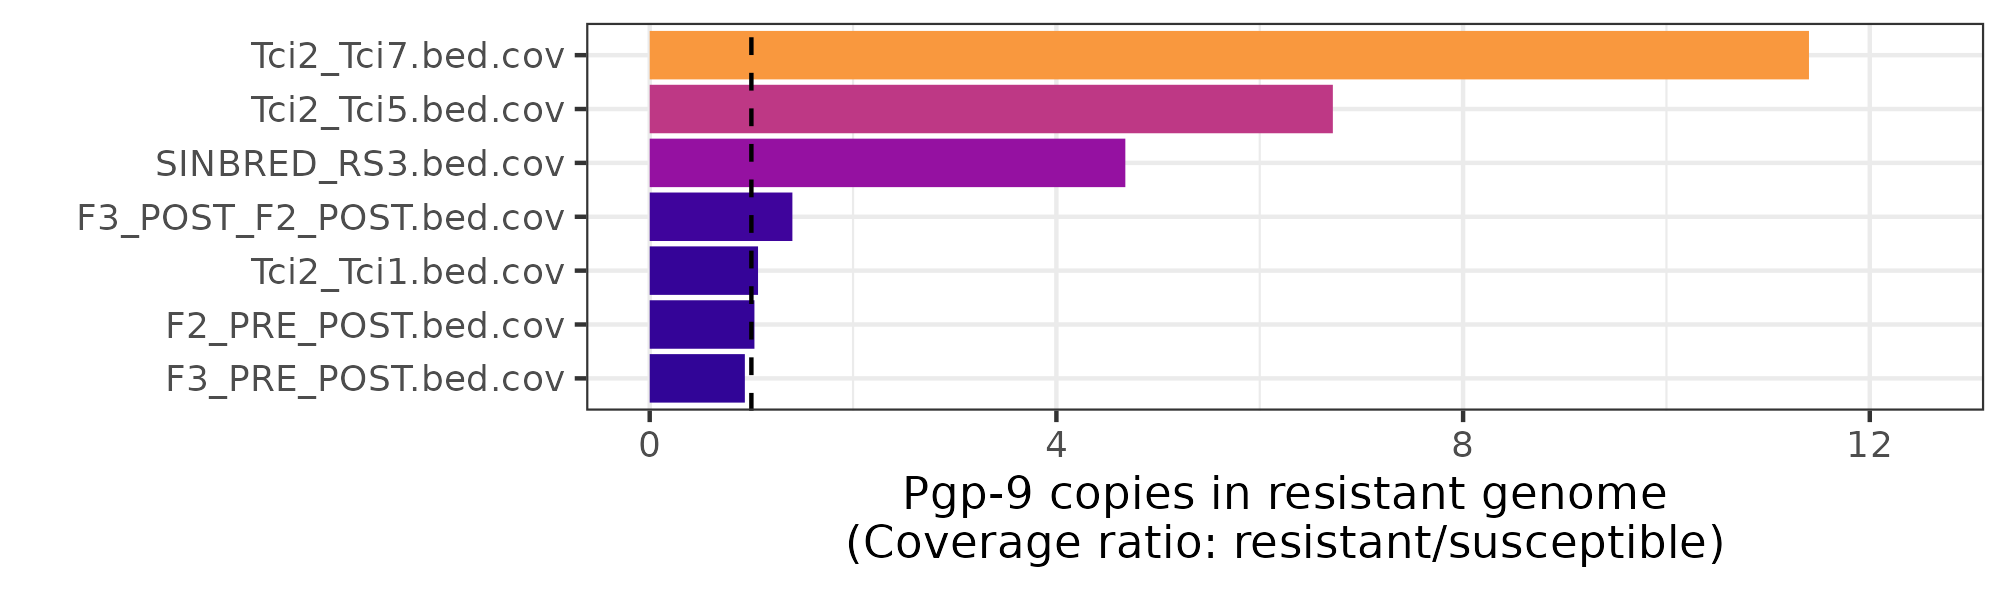
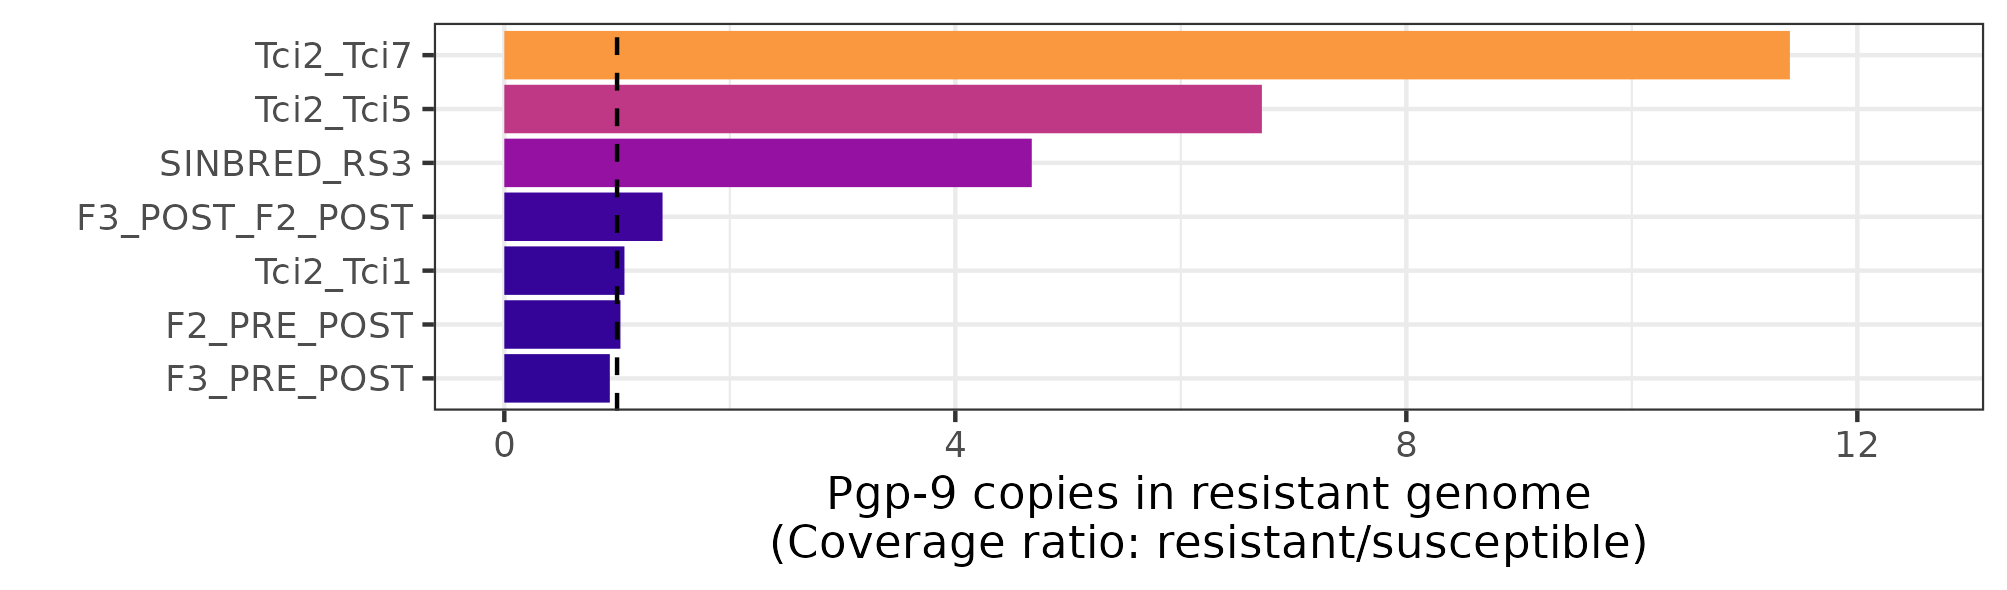
update pgp9

diff --git a/03_code/tcircumcincta_genome.exon_gene_coverage.md b/03_code/tcircumcincta_genome.exon_gene_coverage.md
@@ -143,7 +143,7 @@ data_means_sorted <- data_means %>%
     filter_all(all_vars(!is.infinite(.))) %>% 
     filter_all(all_vars(!is.nan(.)))
 
-data_means_sorted %>% filter(V4=="TCIR_00132080") %>% mutate(name=file)
+data_means_sorted %>% filter(V4=="TCIR_00132080") %>% mutate(name=file) %>% mutate(name = gsub(".bed.cov", "", name))
 
 }
 
